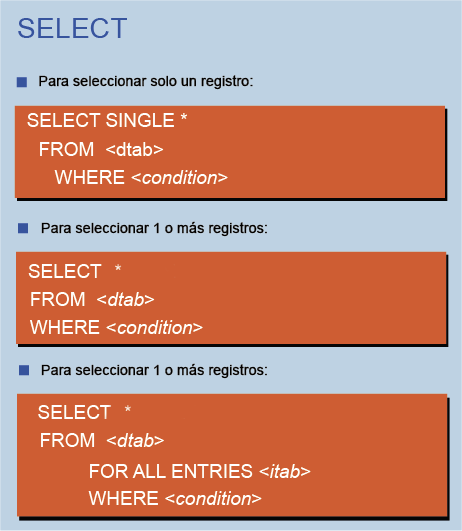
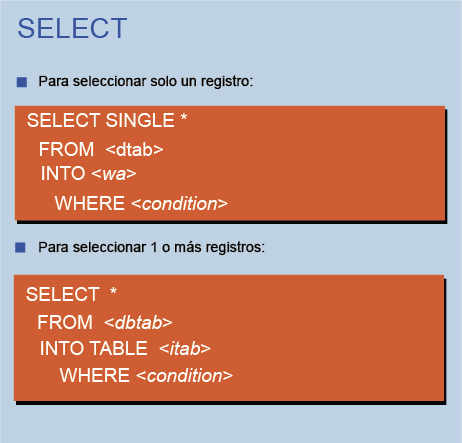
completo

diff --git a/abap_tema5_act1/content.html b/abap_tema5_act1/content.html
@@ -17,6 +17,7 @@
     <script src="components/pit/utilities/jpit_utilities.js"></script>
     <script src="components/pit/activity/jpit_activity.js"></script>
     <script src="components/pit/resources/jpit_resource.js"></script>
+    <script src="components/pit/activity/cloze/jpit_activity_cloze.js"></script>
 
     <script src="js/app.js"></script>
     <script src="js/init.js"></script>
@@ -52,7 +53,7 @@
     </style>
 
 </head>
-<body class="loading" data-debug="true" data-model="scorm" data-display-mode="onlypages" data-approve-limit="70" data-activities-percentaje="60" data-mobile-mode="512">
+<body class="loading" data-debug="true" data-model="scorm" data-display-mode="onlypages" data-approve-limit="100" data-activities-percentaje="60" data-mobile-mode="512">
     <div id="body" class="not_print">
         <div id="not_scorm_msg" style="display: none;"></div>
 
@@ -89,7 +90,7 @@
                             </div>
                         </div>
                         <div class="col-2">
-                            <p>OPEN SQL es un derivado SQL patentado que proviene de la compañía SAP. Esta última tiene la intención de proporcionar un dialecto SQL unificado para todas las bases de datos compatibles con SAP. OPEN SQL es parte del lenguaje de programación ABAP y también cuenta con una versión para Java.</p>
+                            <p>OPEN SQL es un lenguaje que permite insertar, modificar, actualizar y eliminar registros en las tablas de bases de datos, ya que estos objetos son los únicos que guardan información. Los demás, como los vimos anteriormente, sirven de referencia para definir otros objetos.</p>
                         </div>
                     </div>
                 </div>
@@ -105,7 +106,7 @@
                         </li>
                         <li>
                             <p>Estas sentencias permiten manipular datos dentro de las tablas.</p>
-                            <p>El MODIFY y el INSERT, ingresan nuevos registros a la base de datos, sin embargo, la diferencia está en que el MODIFY lo crea si no existe y, si existe, lo modifica.</p>
+                            <p>El MODIFY y el INSERT ingresan nuevos registros a la base de datos, sin embargo, la diferencia está en que el MODIFY lo crea si no existe y, si existe, lo modifica.</p>
                             <div class="centrar-img"><img src="content/tema_5-03.png" alt="INSERT, UPDATE, MODIFY y DELETE" /></div>
                         </li>
                     </div>
@@ -115,24 +116,29 @@
                         <li>
                             <h4>Work Areas</h4>
                             <p>Es un grupo de varios campos que sirven para manejar información en ejecución (capa de aplicación), por ejemplo, un arreglo en Java.</p>
-                            <p>Estructura que puede crearse en el programa ABAP o Ser Global en el diccionario.</p>
+                            <p>Work Area del tipo de la tabla que creamos.</p>
 <pre>
-<em>TYPES</em>: <em>BEGIN OF</em> lty_prueba,
-        nombre(<b>30</b>)     <em>TYPE</em> c,
-        apellidos(<b>30</b>)  <em>TYPE</em> c,
-        dni(<b>30</b>)        <em>TYPE</em> c,
-    <em>END OF</em> lty_prueba.
+<em>DATA</em>: lwa_prueba <em>TYPE</em> zfact_logali.
 </pre>
-                            <p>Work Area del tipo de la estructura:</p>
 
+                            <p>Podemos ingresar un registro a nuestra tabla con las siguientes sentencias:</p>
 <pre>
-<em>DATA</em>: lwa_prueba <em>TYPE</em> lty_prueba.
-</pre>
+lwa_prueba-factura      =   <b>'1234567890'</b>.
+lwa_prueba-cls_fact     =   <b>'OTRO'</b>.
+lwa_prueba-tp_fact      =   <b>'N'</b>.
+lwa_prueba-tp_doc       =   <b>'N'</b>.
+lwa_prueba-ejercicio    =   <b>'2020'</b>.
+lwa_prueba-per_CNTB     =   <b>'003'</b>.
+
+<EM>MODIFY</EM> zfact_logali <em>FROM</em> lwa_prueba.
+</pre>                            
+
                         </li>
+
                         <li>
                             <h4>Tablas internas</h4>
 <pre>
-<em>DATA</em>: lti_prueba <em>TYPE STANDARD TABLE OF</em> lty_prueba.
+<em>DATA</em>: lti_prueba <em>TYPE STANDARD TABLE OF</em> zfact_logali.
 </pre>
                             <p>Las tablas internas son variables dinámicas compuestas de N líneas del mismo tipo. Cualquier tipo de datos ABAP puede ser usado para hacer un tipo de línea de la tabla interna.</p>
                             <p>En esta podemos almacenar cada uno de los registros traídos de la tabla de base de datos Se realiza así:</p>
@@ -141,6 +147,15 @@
     <em>FROM</em> Tabla
     <em>INTO TABLE</em> lti_prueba
     <em>WHERE</em> condicion.
+</pre>
+
+                            <p>Otra forma de hacer el Select es con un solo registro que se almacene en una Work Área:</p>
+
+<pre>
+<em>SELECT SINGLE</em> *
+    <em>INTO</em> Work Area
+    <em>FROM</em> Tabla_Base_de_datos
+    <em>WHERE</em> campo <em>EQ</em> condicion.
 </pre>
                         </li>
                         <li>
@@ -157,14 +172,180 @@
                     </div>
                 </div>
 
+                <div class="subpage">
+                    <div class="box-text activity" label="Actividad de aprendizaje">
+                        <p><strong>Objetivo de aprendizaje:</strong> identificar elementos importantes abordados en este documento y asociados a las sentencias OPEN SQL.</p>
+                        <p><strong>Enunciado:</strong> de acuerdo con cada situación específica, seleccione los elementos correctos a ubicar para completar la sentencia SQL.</p>
+                    </div>
+                    <div class="jpit-activities-cloze" data-parent-mark-selector="span" data-act-id="1-cloze" data-act-title="Completar las sentencias SQL.">
+                        <div class="row">
+                            <div class="col-2">
+                                <h4>1.</h4>
+                                <ul class="data_list">
+                                    <li>
+                                        SELECT 
+                                        <span>
+                                            <select>
+                                                <option data-response="true">CAMPOS</option>
+                                                <option>FROM</option>
+                                                <option>INSERT</option>
+                                                <option>INTO</option>
+                                                <option>INTO TABLE</option>
+                                                <option>MODIFY</option>
+                                                <option>SINGLE</option>
+                                                <option>TABLA POOLED</option>
+                                                <option>UPDATE</option>
+                                                <option>WHERE</option>
+                                            </select>
+                                        </span>
+                                    </li>
+                                    <li>
+                                        <span>
+                                            <select>
+                                                <option>CAMPOS</option>
+                                                <option data-response="true">FROM</option>
+                                                <option>INSERT</option>
+                                                <option>INTO</option>
+                                                <option>INTO TABLE</option>
+                                                <option>MODIFY</option>
+                                                <option>SINGLE</option>
+                                                <option>TABLA POOLED</option>
+                                                <option>UPDATE</option>
+                                                <option>WHERE</option>
+                                            </select>
+                                        </span>
+                                        ZFACT_LOGALI
+                                    </li>
+                                    <li>
+                                        <span>
+                                            <select>
+                                                <option>CAMPOS</option>
+                                                <option>FROM</option>
+                                                <option>INSERT</option>
+                                                <option>INTO</option>
+                                                <option data-response="true">INTO TABLE</option>
+                                                <option>MODIFY</option>
+                                                <option>SINGLE</option>
+                                                <option>TABLA POOLED</option>
+                                                <option>UPDATE</option>
+                                                <option>WHERE</option>
+                                            </select>
+                                        </span>
+                                        LTI_PRUEBA
+                                    </li>
+                                    <li>
+                                        <span>
+                                            <select>
+                                                <option>CAMPOS</option>
+                                                <option>FROM</option>
+                                                <option>INSERT</option>
+                                                <option>INTO</option>
+                                                <option>INTO TABLE</option>
+                                                <option>MODIFY</option>
+                                                <option>SINGLE</option>
+                                                <option>TABLA POOLED</option>
+                                                <option>UPDATE</option>
+                                                <option data-response="true">WHERE</option>
+                                            </select>
+                                        </span>
+                                        CONDICIÓN
+                                    </li>
+                                </ul>
+                            </div>
+                            <div class="col-2">
+                                <h4>2.</h4>
+                                <ul class="data_list">
+                                    <li>
+                                        SELECT 
+                                        <span>
+                                            <select>
+                                                <option>CAMPOS</option>
+                                                <option>FROM</option>
+                                                <option>INSERT</option>
+                                                <option>INTO</option>
+                                                <option>INTO TABLE</option>
+                                                <option>MODIFY</option>
+                                                <option data-response="true">SINGLE</option>
+                                                <option>TABLA POOLED</option>
+                                                <option>UPDATE</option>
+                                                <option>WHERE</option>
+                                            </select>
+                                        </span>
+                                        CAMPOS
+                                    </li>
+                                    <li>
+                                        <span>
+                                            <select>
+                                                <option>CAMPOS</option>
+                                                <option data-response="true">FROM</option>
+                                                <option>INSERT</option>
+                                                <option>INTO</option>
+                                                <option>INTO TABLE</option>
+                                                <option>MODIFY</option>
+                                                <option>SINGLE</option>
+                                                <option>TABLA POOLED</option>
+                                                <option>UPDATE</option>
+                                                <option>WHERE</option>
+                                            </select>
+                                        </span>
+                                        ZFACT_LOGALI
+                                    </li>
+                                    <li>
+                                        <span>
+                                            <select>
+                                                <option>CAMPOS</option>
+                                                <option>FROM</option>
+                                                <option>INSERT</option>
+                                                <option data-response="true">INTO</option>
+                                                <option>INTO TABLE</option>
+                                                <option>MODIFY</option>
+                                                <option>SINGLE</option>
+                                                <option>TABLA POOLED</option>
+                                                <option>UPDATE</option>
+                                                <option>WHERE</option>
+                                            </select>
+                                        </span>
+                                        LWA_PRUEBA
+                                    </li>
+                                    <li>
+                                        <span>
+                                            <select>
+                                                <option>CAMPOS</option>
+                                                <option>FROM</option>
+                                                <option>INSERT</option>
+                                                <option>INTO</option>
+                                                <option>INTO TABLE</option>
+                                                <option>MODIFY</option>
+                                                <option>SINGLE</option>
+                                                <option>TABLA POOLED</option>
+                                                <option>UPDATE</option>
+                                                <option data-response="true">WHERE</option>
+                                            </select>
+                                        </span>
+                                        CONDICIÓN
+                                    </li>
+                                </ul>
+                            </div>
+                        </div>
+                        <div class="box_end">
+                            <feedback>
+                                <correct>¡Excelente! Ha identificado correctamente los elementos para las sentencias SQL abordados en esta actividad.</correct>
+                                <wrong>¡Bien! Aunque identificó algunos elementos correctamente, le falta reconocer todos los de esta actividad. Estudie un poco más y reintente hasta que pueda responder correctamente a todos los enunciados.</wrong>
+                            </feedback>
+                        </div>
+                        
+                    </div>
+                </div>
             </section>
 
         </main>
 
         <footer class="not_print">
+            <div class="measuring-progress" data-type="horizontal"></div>
 
             <nav label="General" class="globals2">
                 <menu>
+                    <menuitem data-global-id="results"><span><i class="ion-speedometer" data-position-at="right top"></i> <br /><label id="labelprogress">Progreso</label></span></menuitem>
                     <menuitem data-global-id="credits"><span><i class="ion-information-circled" data-position-at="right top"></i> <br /><label id="labelprogress">Créditos</label></span></menuitem>
                 </menu>
             </nav>
@@ -186,6 +367,8 @@
         <h3>Páginas visitadas</h3>
         <p>En verde, aquellas páginas que ya ha visitado.</p>
         <div id="results_page_visited" class="container"></div>
+        <h3>Actividades de aprendizaje</h3>
+        <div id="results_page_activities"></div>
     </div>
 
     <!--Créditos-->
